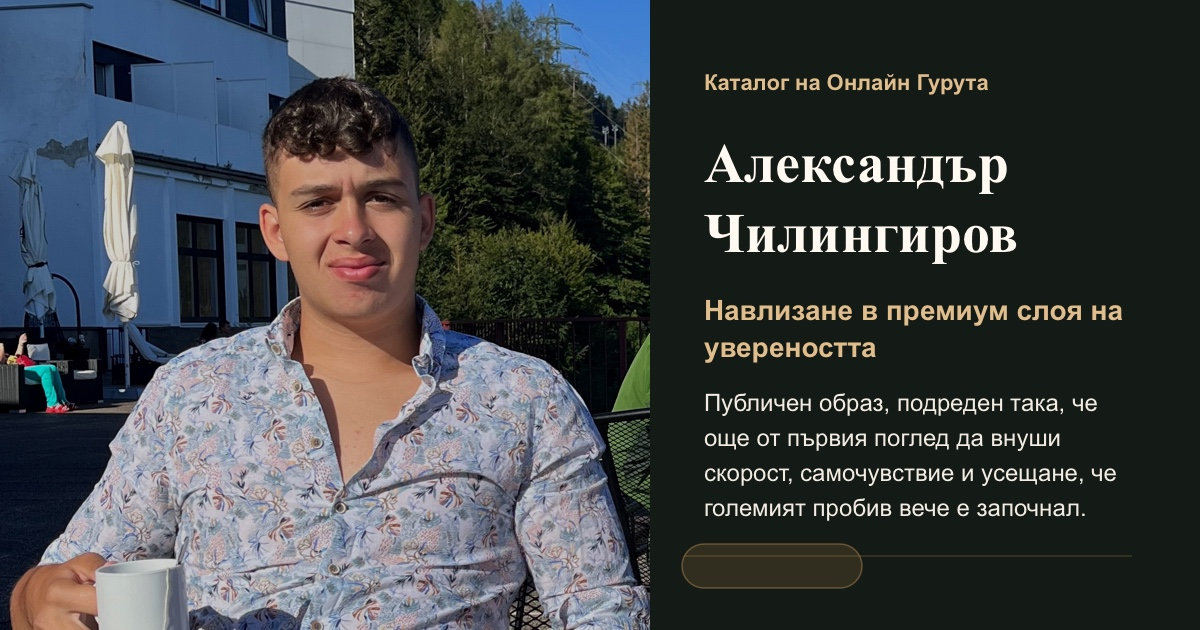
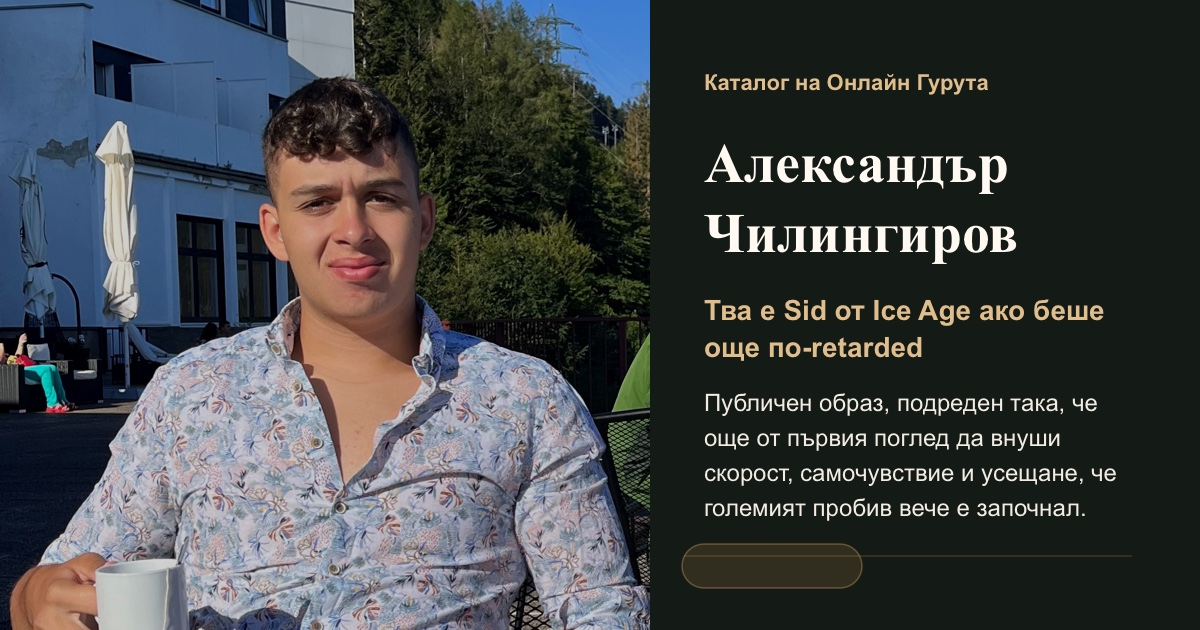
ko

Changed region(s): [[0.5858, 0.4524, 0.9558, 0.5127], [0.5858, 0.5429, 0.7708, 0.573]]

diff --git a/profiles/aleksandar-chilingirov/index.html b/profiles/aleksandar-chilingirov/index.html
@@ -3,14 +3,14 @@
   <head>
     <meta charset="UTF-8" />
     <meta name="viewport" content="width=device-width, initial-scale=1.0" />
-    <title>Александър Чилингиров • Навлизане в премиум слоя на увереността | Каталог на Онлайн Гурута</title>
-    <meta name="description" content="Публичен образ, подреден така, че още от първия поглед да внуши скорост, самочувствие и усещане, че големият пробив вече е започнал. Тонът подсказва, че успехът е въпрос на правилна нагласа, правилен ментор и още едно включване. Виж публич…" />
+    <title>Александър Чилингиров • Тва е Sid от Ice Age ако беше още по-retarded | Каталог на Онлайн Гурута</title>
+    <meta name="description" content="Публичен образ, подреден така, че още от първия поглед да внуши скорост, самочувствие и усещане, че големият пробив вече е започнал. Прилича на изнемощял сперматозоид от надрусан Иво Димчев в гъза на Азис. Пълно леке. Виж публичните линков…" />
     <link rel="canonical" href="https://www.istinskiguru.com/profiles/aleksandar-chilingirov/" />
     <meta property="og:locale" content="bg_BG" />
     <meta property="og:type" content="article" />
     <meta property="og:site_name" content="Каталог на Онлайн Гурута" />
-    <meta property="og:title" content="Александър Чилингиров • Навлизане в премиум слоя на увереността" />
-    <meta property="og:description" content="Публичен образ, подреден така, че още от първия поглед да внуши скорост, самочувствие и усещане, че големият пробив вече е започнал. Тонът подсказва, че успехът е въпрос на правилна нагласа, правилен ментор и още едно включване. Виж публич…" />
+    <meta property="og:title" content="Александър Чилингиров • Тва е Sid от Ice Age ако беше още по-retarded" />
+    <meta property="og:description" content="Публичен образ, подреден така, че още от първия поглед да внуши скорост, самочувствие и усещане, че големият пробив вече е започнал. Прилича на изнемощял сперматозоид от надрусан Иво Димчев в гъза на Азис. Пълно леке. Виж публичните линков…" />
     <meta property="og:url" content="https://www.istinskiguru.com/profiles/aleksandar-chilingirov/" />
     <meta property="og:image" content="https://www.istinskiguru.com/site-assets/aleksandar-chilingirov-share.jpg" />
     <meta property="og:image:secure_url" content="https://www.istinskiguru.com/site-assets/aleksandar-chilingirov-share.jpg" />
@@ -19,8 +19,8 @@
     <meta property="og:image:height" content="630" />
     <meta property="og:image:alt" content="Профилно изображение за Александър Чилингиров" />
     <meta name="twitter:card" content="summary_large_image" />
-    <meta name="twitter:title" content="Александър Чилингиров • Навлизане в премиум слоя на увереността" />
-    <meta name="twitter:description" content="Публичен образ, подреден така, че още от първия поглед да внуши скорост, самочувствие и усещане, че големият пробив вече е започнал. Тонът подсказва, че успехът е въпрос на правилна нагласа, правилен ментор и още едно включване. Виж публич…" />
+    <meta name="twitter:title" content="Александър Чилингиров • Тва е Sid от Ice Age ако беше още по-retarded" />
+    <meta name="twitter:description" content="Публичен образ, подреден така, че още от първия поглед да внуши скорост, самочувствие и усещане, че големият пробив вече е започнал. Прилича на изнемощял сперматозоид от надрусан Иво Димчев в гъза на Азис. Пълно леке. Виж публичните линков…" />
     <meta name="twitter:image" content="https://www.istinskiguru.com/site-assets/aleksandar-chilingirov-share.jpg" />
     <link rel="stylesheet" href="/styles.css" />
     <script src="/site-intro.js" defer></script>
@@ -47,7 +47,7 @@
             <img src="/site-assets/aleksandar-chilingirov.jpg" alt="Профилно изображение за Александър Чилингиров" />
           </div>
           <div class="hero-quote">
-            <span>Навлизане в премиум слоя на увереността</span>
+            <span>Тва е Sid от Ice Age ако беше още по-retarded</span>
             <strong>Поглед с достатъчно увереност да продава следващото ниво още преди първото изречение.</strong>
           </div>
         </div>
@@ -90,7 +90,7 @@
 
           <div class="profile-copy">
             <div class="profile-main">
-              <p class="profile-kicker">Навлизане в премиум слоя на увереността</p>
+              <p class="profile-kicker">Тва е Sid от Ice Age ако беше още по-retarded</p>
               <h3>Александър Чилингиров</h3>
               <p class="profile-summary">Публичен образ, подреден така, че още от първия поглед да внуши скорост, самочувствие и усещане, че големият пробив вече е започнал.</p>
               <div class="profile-actions">
@@ -173,7 +173,7 @@
               
         <div class="profile-description">
           <p class="profile-description-label">Описание</p>
-          <p>Алекс Чикийката ви учи на айсберг модела. Млада, успяла жена на 16-17 години нз на колко е ама е богат и иска да го сподели с вас, защото просто не може да държи всички тези пари, иска да живее в държава в която няма трохари - Вие сте трохари, той е гуру и ще ви научи как да сте като него.</p>
+          <p>Алекс Чикийката ви учи на айсберг модела. Алекс е млада и успяла жена, завършила 12-ти клас едвам едвам, защото това е пълен скам и вие всички сте трохари които му пречат да прави пари! Ама ако искате - запишете се за някое курсче и той ще ви научи как да правите пари.</p>
         </div>
       
               <dl class="signal-grid">
@@ -192,7 +192,7 @@
         <dd>Лъскав вход, силен образ и обещание, че моделът вече работи</dd>
       </div>
     </dl>
-              <p class="profile-insight">Тонът подсказва, че успехът е въпрос на правилна нагласа, правилен ментор и още едно включване.</p>
+              <p class="profile-insight">Прилича на изнемощял сперматозоид от надрусан Иво Димчев в гъза на Азис. Пълно леке.</p>
             </div>
           </div>
         </article>

diff --git a/site-data.js b/site-data.js
@@ -10,12 +10,12 @@ window.__GURU_PROFILES__ = [
       "site-assets/aleksandar-chilingirov-video-2.mp4"
     ],
     "orientation": "portrait",
-    "description": "Алекс Чикийката ви учи на айсберг модела. Млада, успяла жена на 16-17 години нз на колко е ама е богат и иска да го сподели с вас, защото просто не може да държи всички тези пари, иска да живее в държава в която няма трохари - Вие сте трохари, той е гуру и ще ви научи как да сте като него.",
-    "kicker": "Навлизане в премиум слоя на увереността",
+    "description": "Алекс Чикийката ви учи на айсберг модела. Алекс е млада и успяла жена, завършила 12-ти клас едвам едвам, защото това е пълен скам и вие всички сте трохари които му пречат да прави пари! Ама ако искате - запишете се за някое курсче и той ще ви научи как да правите пари.",
+    "kicker": "Тва е Sid от Ice Age ако беше още по-retarded",
     "summary": "Публичен образ, подреден така, че още от първия поглед да внуши скорост, самочувствие и усещане, че големият пробив вече е започнал.",
     "aura": "Ранен дигитален размах с луксозен завършек",
     "funnel": "Лъскав вход, силен образ и обещание, че моделът вече работи",
-    "insight": "Тонът подсказва, че успехът е въпрос на правилна нагласа, правилен ментор и още едно включване.",
+    "insight": "Прилича на изнемощял сперматозоид от надрусан Иво Димчев в гъза на Азис. Пълно леке.",
     "channels": [
       "Уебсайт",
       "Facebook",
